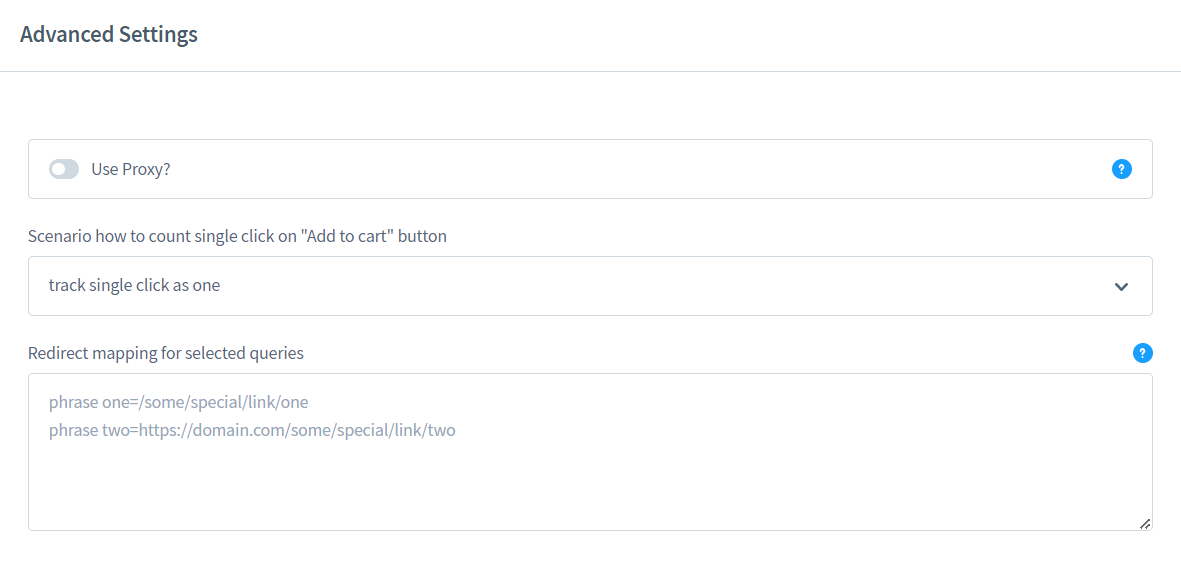
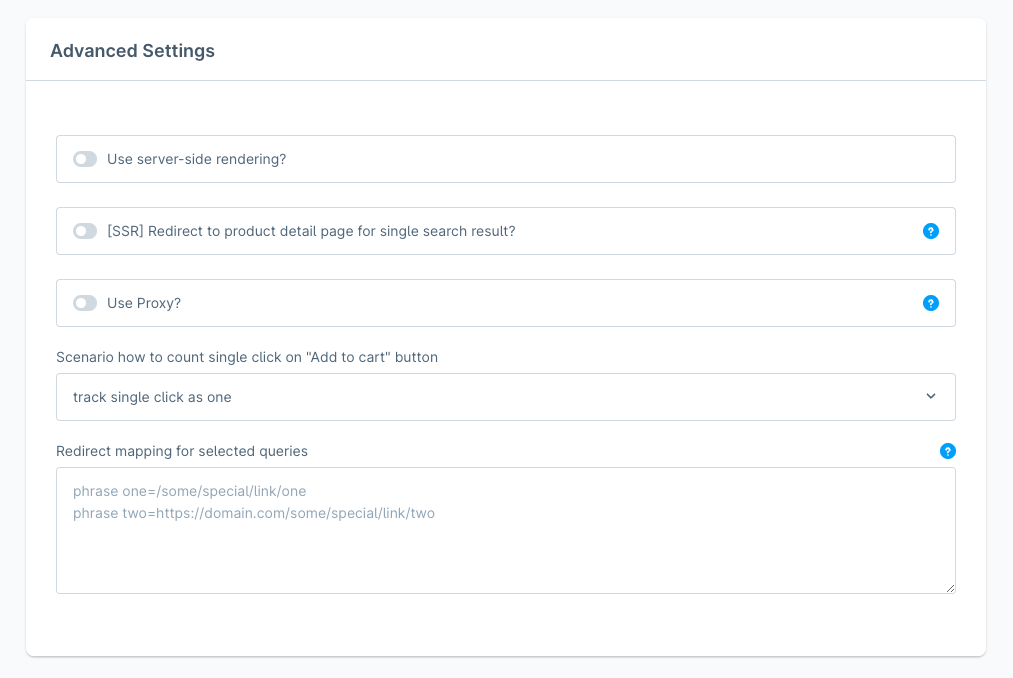
FFWEB-3300: Redirect to PDP if there is one product in search result
Redirect to PDP if there is only one product in search result. More info in SDK documentation.

diff --git a/src/Utilites/Ssr/Template/RecordList.php b/src/Utilites/Ssr/Template/RecordList.php
@@ -4,7 +4,8 @@ declare(strict_types=1);
 
 namespace Omikron\FactFinder\Shopware6\Utilites\Ssr\Template;
 
-use Omikron\FactFinder\Shopware6\Utilites\Ssr\Exception\DetectRedirectCampaignException;
+use Omikron\FactFinder\Shopware6\Config\Communication;
+use Omikron\FactFinder\Shopware6\Utilites\Ssr\Exception\DetectRedirectException;
 use Omikron\FactFinder\Shopware6\Utilites\Ssr\SearchAdapter;
 use Symfony\Component\HttpFoundation\Request;
 
@@ -19,11 +20,13 @@ class RecordList
     private string $salesChannelId;
     private string $content;
     private string $template;
+    private Communication $pluginConfig;
 
     public function __construct(
         Request $request,
         Engine $handlebars,
         SearchAdapter $searchAdapter,
+        Communication $pluginConfig,
         string $salesChannelId,
         string $content,
     ) {
@@ -32,13 +35,14 @@ class RecordList
         $this->searchAdapter  = $searchAdapter;
         $this->salesChannelId = $salesChannelId;
         $this->content        = $content;
+        $this->pluginConfig   = $pluginConfig;
         $this->setTemplateString();
     }
 
     /**
      * @SuppressWarnings(PHPMD.BooleanArgumentFlag)
      *
-     * @throws DetectRedirectCampaignException
+     * @throws DetectRedirectException
      */
     public function getContent(
         string $paramString,
@@ -48,7 +52,14 @@ class RecordList
 
         // Support redirect campaigns for SSR
         if ($this->getRedirectCampaign($results)) {
-            throw new DetectRedirectCampaignException($this->getRedirectCampaign($results));
+            throw new DetectRedirectException($this->getRedirectCampaign($results));
+        }
+
+        // Support redirect to PDP if found one result
+        if ($this->pluginConfig->isSsrPdpEnabled()) {
+            if ($this->shouldRedirectToPDP($results) && $this->getProductDeeplink($results)) {
+                throw new DetectRedirectException($this->getProductDeeplink($results));
+            }
         }
 
         return $this->renderResults($results, $paramString);
@@ -121,14 +132,24 @@ class RecordList
         $this->template = $match[0] ?? '';
     }
 
-    private function getRedirectCampaign(array $result): ?string
+    private function getRedirectCampaign(array $results): ?string
     {
-        if (!empty($result['campaigns'])) {
-            $campaign = array_search('REDIRECT', array_column($result['campaigns'], 'flavour'));
+        if (!empty($results['campaigns'])) {
+            $campaign = array_search('REDIRECT', array_column($results['campaigns'], 'flavour'));
 
-            return $result['campaigns'][$campaign]['target']['destination'] ?? null;
+            return $results['campaigns'][$campaign]['target']['destination'] ?? null;
         }
 
         return null;
+    }
+
+    private function shouldRedirectToPDP(array $results): bool
+    {
+        return count($results['records']) === 1 && $results['totalHits'] === 1;
+    }
+
+    private function getProductDeeplink(array $results): ?string
+    {
+        return $results['records'][0]['record']['Deeplink'] ?? null;
     }
 }

diff --git a/src/Subscriber/CategoryPageResponseSubscriber.php b/src/Subscriber/CategoryPageResponseSubscriber.php
@@ -5,7 +5,7 @@ declare(strict_types=1);
 namespace Omikron\FactFinder\Shopware6\Subscriber;
 
 use Omikron\FactFinder\Shopware6\Config\Communication;
-use Omikron\FactFinder\Shopware6\Utilites\Ssr\Exception\DetectRedirectCampaignException;
+use Omikron\FactFinder\Shopware6\Utilites\Ssr\Exception\DetectRedirectException;
 use Omikron\FactFinder\Shopware6\Utilites\Ssr\Field\CategoryPath;
 use Omikron\FactFinder\Shopware6\Utilites\Ssr\SearchAdapter;
 use Omikron\FactFinder\Shopware6\Utilites\Ssr\Template\Engine;
@@ -78,6 +78,7 @@ class CategoryPageResponseSubscriber implements EventSubscriberInterface
             $request,
             $this->handlebars,
             $this->searchAdapter,
+            $this->config,
             $request->attributes->get('sw-sales-channel-id'),
             $response->getContent(),
         );
@@ -89,7 +90,7 @@ class CategoryPageResponseSubscriber implements EventSubscriberInterface
                     true
                 )
             );
-        } catch (DetectRedirectCampaignException $exception) {
+        } catch (DetectRedirectException $exception) {
             $event->setResponse(new RedirectResponse($exception->getRedirectUrl()));
         }
     }

diff --git a/src/Storefront/Controller/ResultController.php b/src/Storefront/Controller/ResultController.php
@@ -5,7 +5,7 @@ declare(strict_types=1);
 namespace Omikron\FactFinder\Shopware6\Storefront\Controller;
 
 use Omikron\FactFinder\Shopware6\Config\Communication;
-use Omikron\FactFinder\Shopware6\Utilites\Ssr\Exception\DetectRedirectCampaignException;
+use Omikron\FactFinder\Shopware6\Utilites\Ssr\Exception\DetectRedirectException;
 use Omikron\FactFinder\Shopware6\Utilites\Ssr\SearchAdapter;
 use Omikron\FactFinder\Shopware6\Utilites\Ssr\Template\Engine;
 use Omikron\FactFinder\Shopware6\Utilites\Ssr\Template\RecordList;
@@ -44,6 +44,7 @@ class ResultController extends StorefrontController
             $request,
             $handlebars,
             $searchAdapter,
+            $this->config,
             $context->getSalesChannelId(),
             $response->getContent(),
         );
@@ -54,7 +55,7 @@ class ResultController extends StorefrontController
                     $this->parseQueryString($request->getQueryString() ?? '', $request)
                 )
             );
-        } catch (DetectRedirectCampaignException $exception) {
+        } catch (DetectRedirectException $exception) {
             return new RedirectResponse($exception->getRedirectUrl());
         }
 

diff --git a/src/Config/Communication.php b/src/Config/Communication.php
@@ -56,6 +56,11 @@ class Communication extends BaseConfig
         return (bool) $this->config('useProxy');
     }
 
+    public function isSsrPdpEnabled(): bool
+    {
+        return (bool) $this->config('useSsrPdp');
+    }
+
     public function getFactFinderFeatures(): array
     {
         return [

diff --git a/src/Utilites/Ssr/Exception/DetectRedirectException.php b/src/Utilites/Ssr/Exception/DetectRedirectException.php
@@ -4,7 +4,7 @@ declare(strict_types=1);
 
 namespace Omikron\FactFinder\Shopware6\Utilites\Ssr\Exception;
 
-class DetectRedirectCampaignException extends \Exception
+class DetectRedirectException extends \Exception
 {
     private string $redirectUrl;
 

diff --git a/README.md b/README.md
@@ -122,16 +122,6 @@ You can find more information about what Field Roles are in (Web Components docu
 **Note:**
  Updating process is ran for all sales channels, no need to run it separately for each of them
 
-#### Server Side Rendering
-That option enables Server Side Rendering (SSR) for `ff-record-list` element on category and search result pages.
-That means when user navigate to a page of mentioned type, the HTML output will contain the pre-rendered custom elements.
-This is useful especially in terms of SEO because `ff-record-list` renders product data which could have much impact on page rating in browser.
-Without SSR enabled, web crawlers could not have a chance to scan the element rendered content because it will not yet be rendered on the time of scanning.
-
-**Note:** More information about SSR concept you can find in the article [Server Side Rendering](https://web-components.fact-finder.de/documentation/4.x/server-side-rendering) from Web Components documentation.
-
-**Note:** If you have a problem with displaying product images or prices correctly, you probably have Field Roles set incorrectly. You can easily fix this by setting [custom fields roles](#set-custom-field-roles)
-
 ## Advanced Settings
 
 ![Advanced Settings](docs/assets/advanced-settings.png "Advanced Settings")
@@ -145,6 +135,20 @@ Note: Sending each request to FACT-Finder instance trough Shopware, you lose on 
 
 * Scenario how to count single click on "Add to cart" button
 * Redirect mapping for selected queries - put each pair `query=url` in separate row. If the phrase appears twice, the first one from the top of the list will be taken. Url can be relative path `/some/page` or absolute url `https://domain.com/some/page?someParameter=1`. If provided pair has an invalid format then it will be ignored.
+
+#### Server Side Rendering
+That option enables Server Side Rendering (SSR) for `ff-record-list` element on category and search result pages.
+That means when user navigate to a page of mentioned type, the HTML output will contain the pre-rendered custom elements.
+This is useful especially in terms of SEO because `ff-record-list` renders product data which could have much impact on page rating in browser.
+Without SSR enabled, web crawlers could not have a chance to scan the element rendered content because it will not yet be rendered on the time of scanning.
+
+**Note:** More information about SSR concept you can find in the article [Server Side Rendering](https://web-components.fact-finder.de/documentation/4.x/server-side-rendering) from Web Components documentation.
+
+* Redirect to product detail page for single search result? - This option only works with server side rendering enabled. If SSR search result has one result it will automatically be redirected to the product detail page.
+  This setting also works with category pages. **Note:** Redirection only happens when search is done via Server Side Rendering. If search is done via WebComponents redirect will not happen.
+
+**Note:** If you have a problem with displaying product images or prices correctly, you probably have Field Roles set incorrectly. You can easily fix this by setting [custom fields roles](#set-custom-field-roles)
+
 
 ## Features Settings
 

diff --git a/CHANGELOG.md b/CHANGELOG.md
@@ -3,6 +3,7 @@
 ### Add
 - Add feature settings so it is possible to enable/disable some of FactFinder features like campaigns or recommendations
 - Support Proxy feature for Server Side Rendering
+- (SSR) Redirect to PDP if there is only one product in search result
 
 ### Fix
 - Remove CategoryPath filter in URL and ASN on category page
